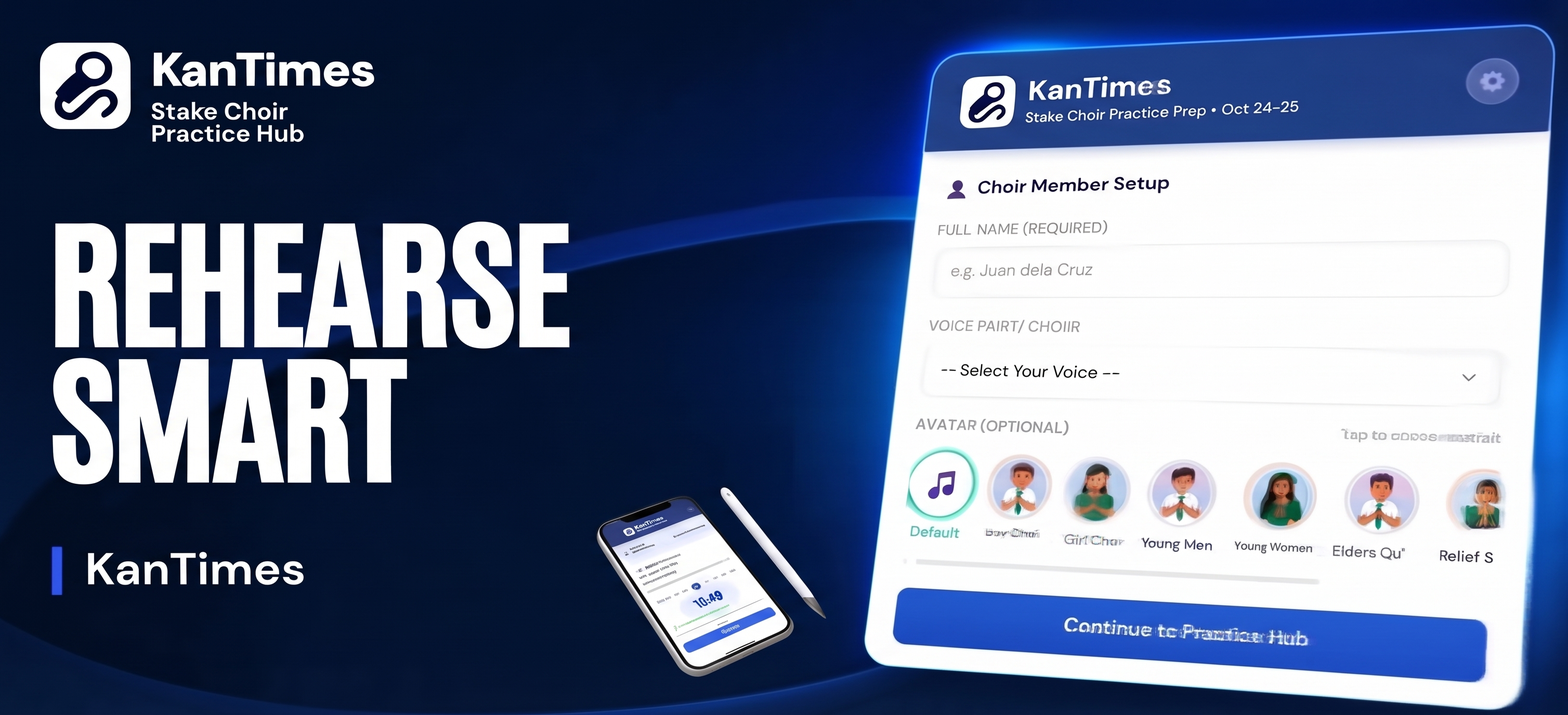
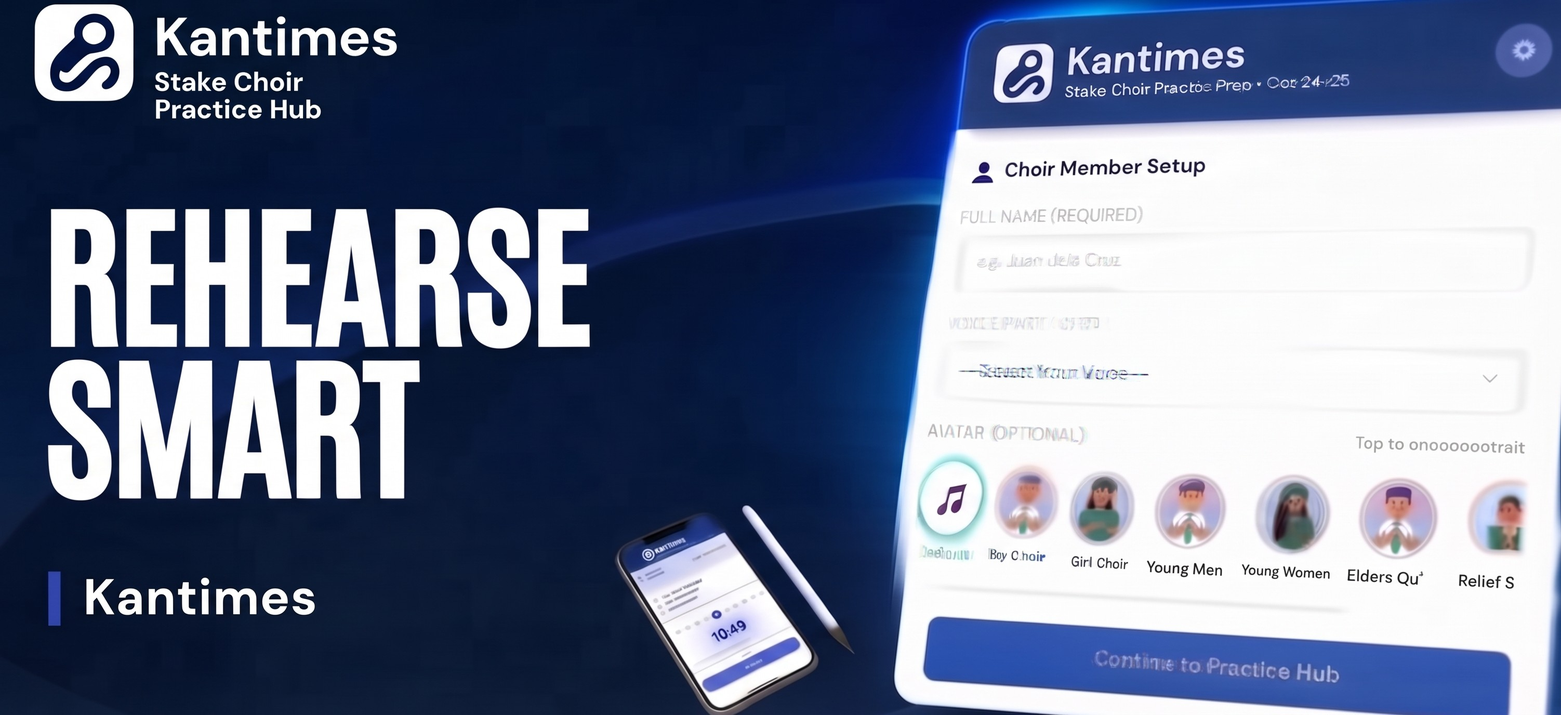
chore(image): replace image for kantimes-thumbnail

diff --git a/sw.js b/sw.js
@@ -34,7 +34,7 @@ const PRECACHE_ASSETS = [
   "./images/elder-choir.jpg",
   "./images/sister-choir.jpg",
   // Local Repertoire Resources (kantimes-resources)
-  "./kantimes-resources/kantimes-thumbnail.png",
+  "./kantimes-resources/kantimes-thumbnail.jpg",
   "./kantimes-resources/Choose%20You%20This%20Day/Choose%20You%20This%20Day.mp3",
   "./kantimes-resources/Choose%20You%20This%20Day/Choose%20You%20This%20Day%20(piano).mp3",
   "./kantimes-resources/Choose%20You%20This%20Day/Choose%20You%20This%20Day%20-%20SOPRANO.mp3",

diff --git a/index.html b/index.html
@@ -50,7 +50,7 @@
           title="Tap to refresh app and check for new songs" aria-label="Refresh app and check for updates"
           onerror="this.style.display='none'">
         <div class="header-text">
-          <h1>KanTimes <span class="app-version-badge" title="Kantimes v2.6.0">v2.6.0</span></h1>
+          <h1>Kantimes <span class="app-version-badge" title="Kantimes v2.6.0">v2.6.0</span></h1>
           <p id="headerSubtitle">Stake Choir Prep • Oct 24–25</p>
         </div>
       </div>
